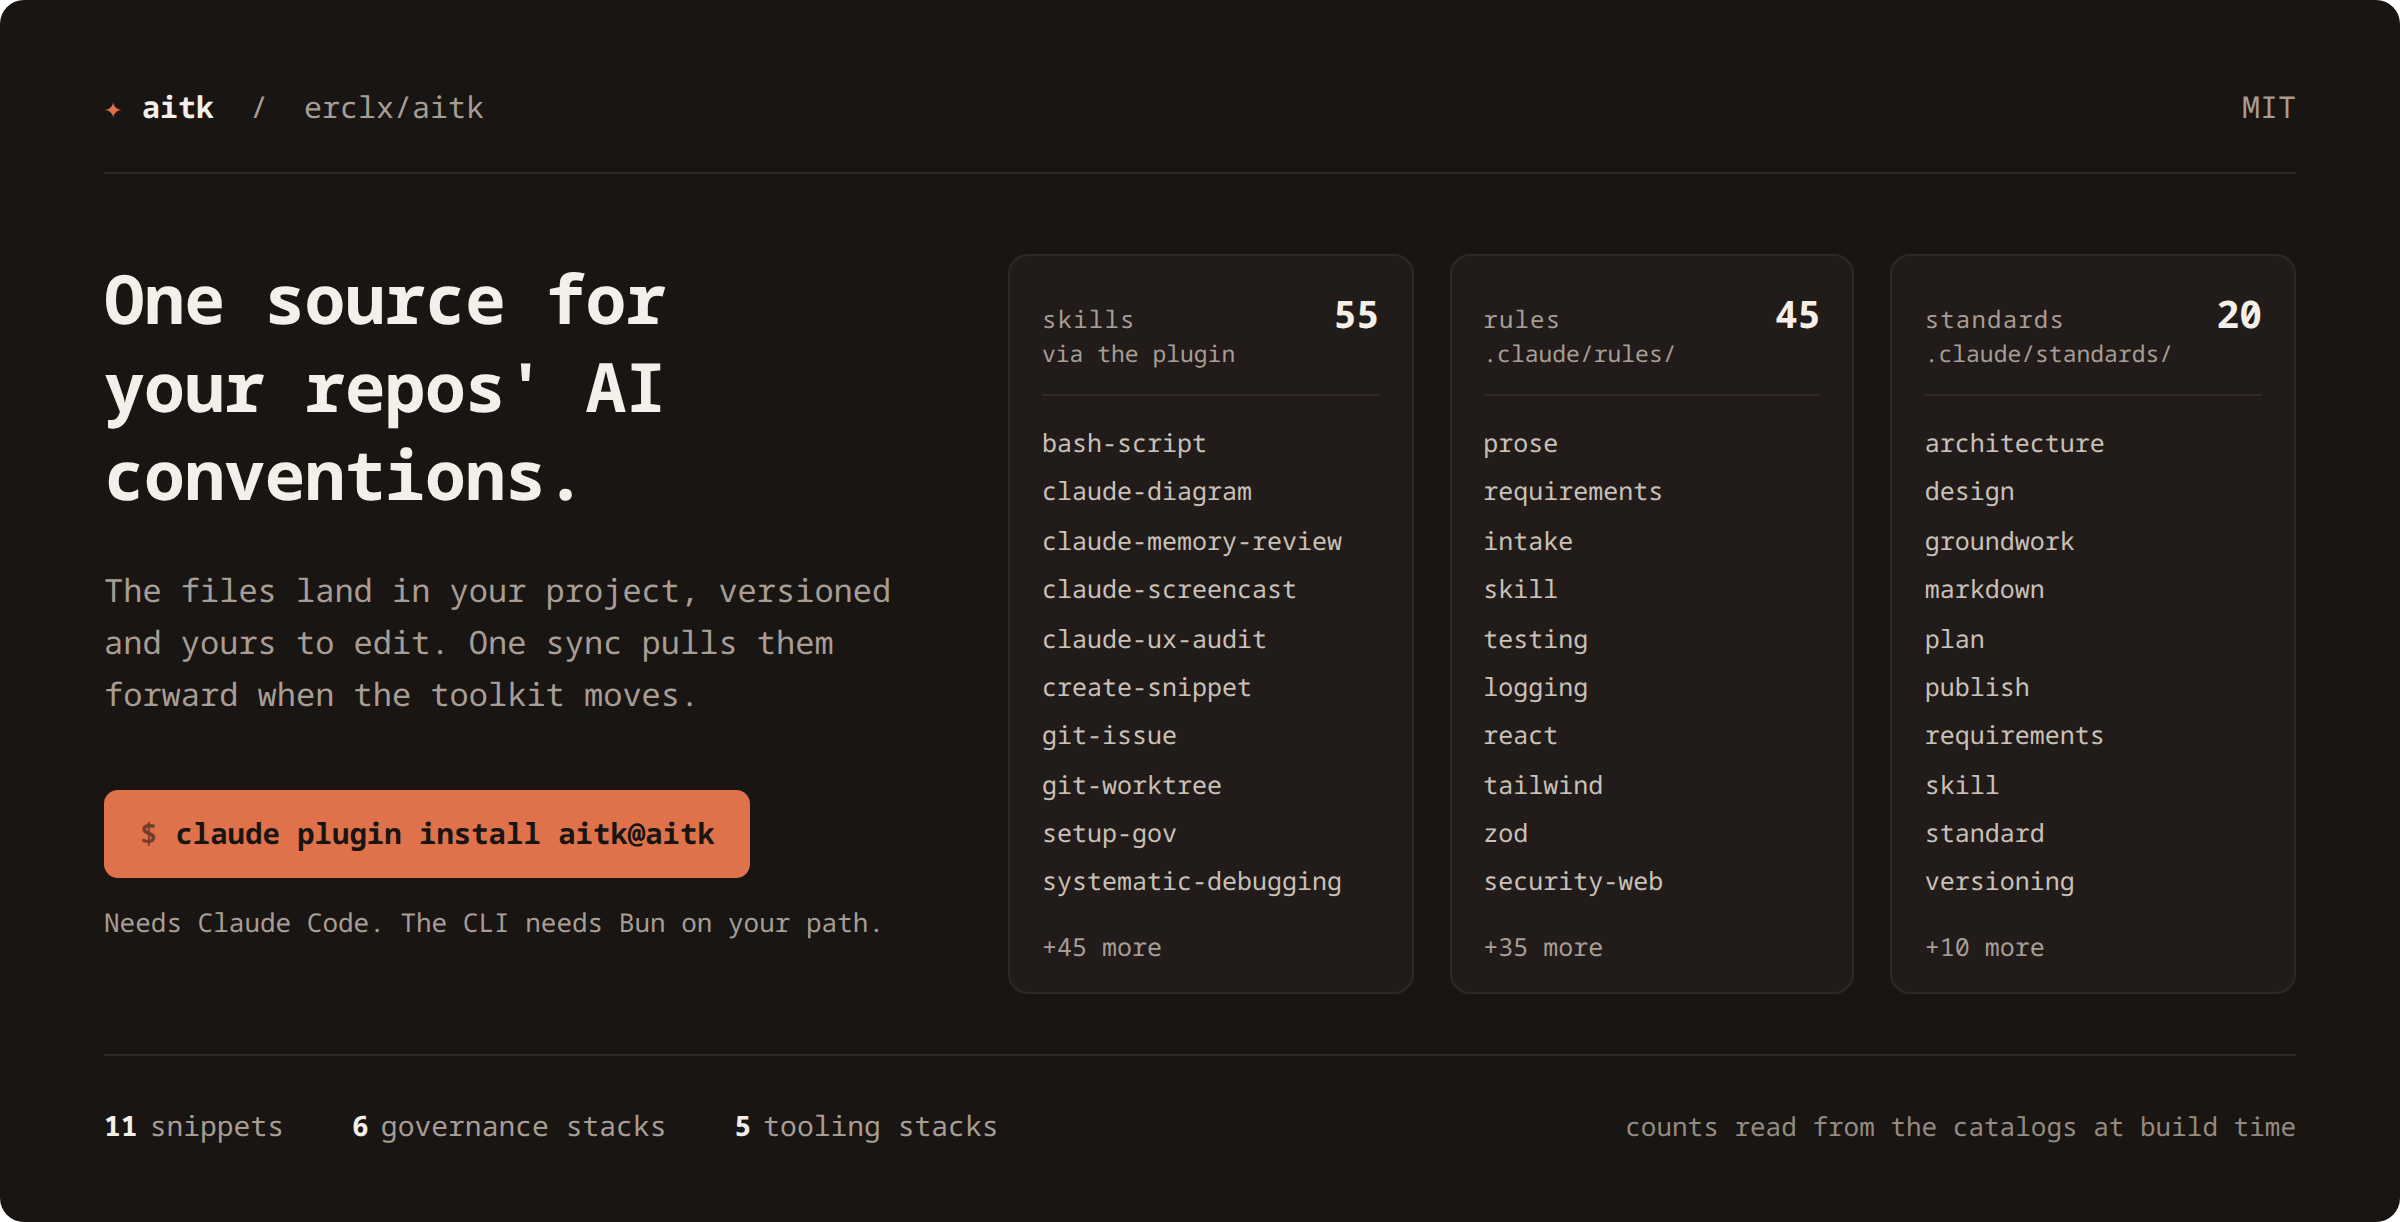
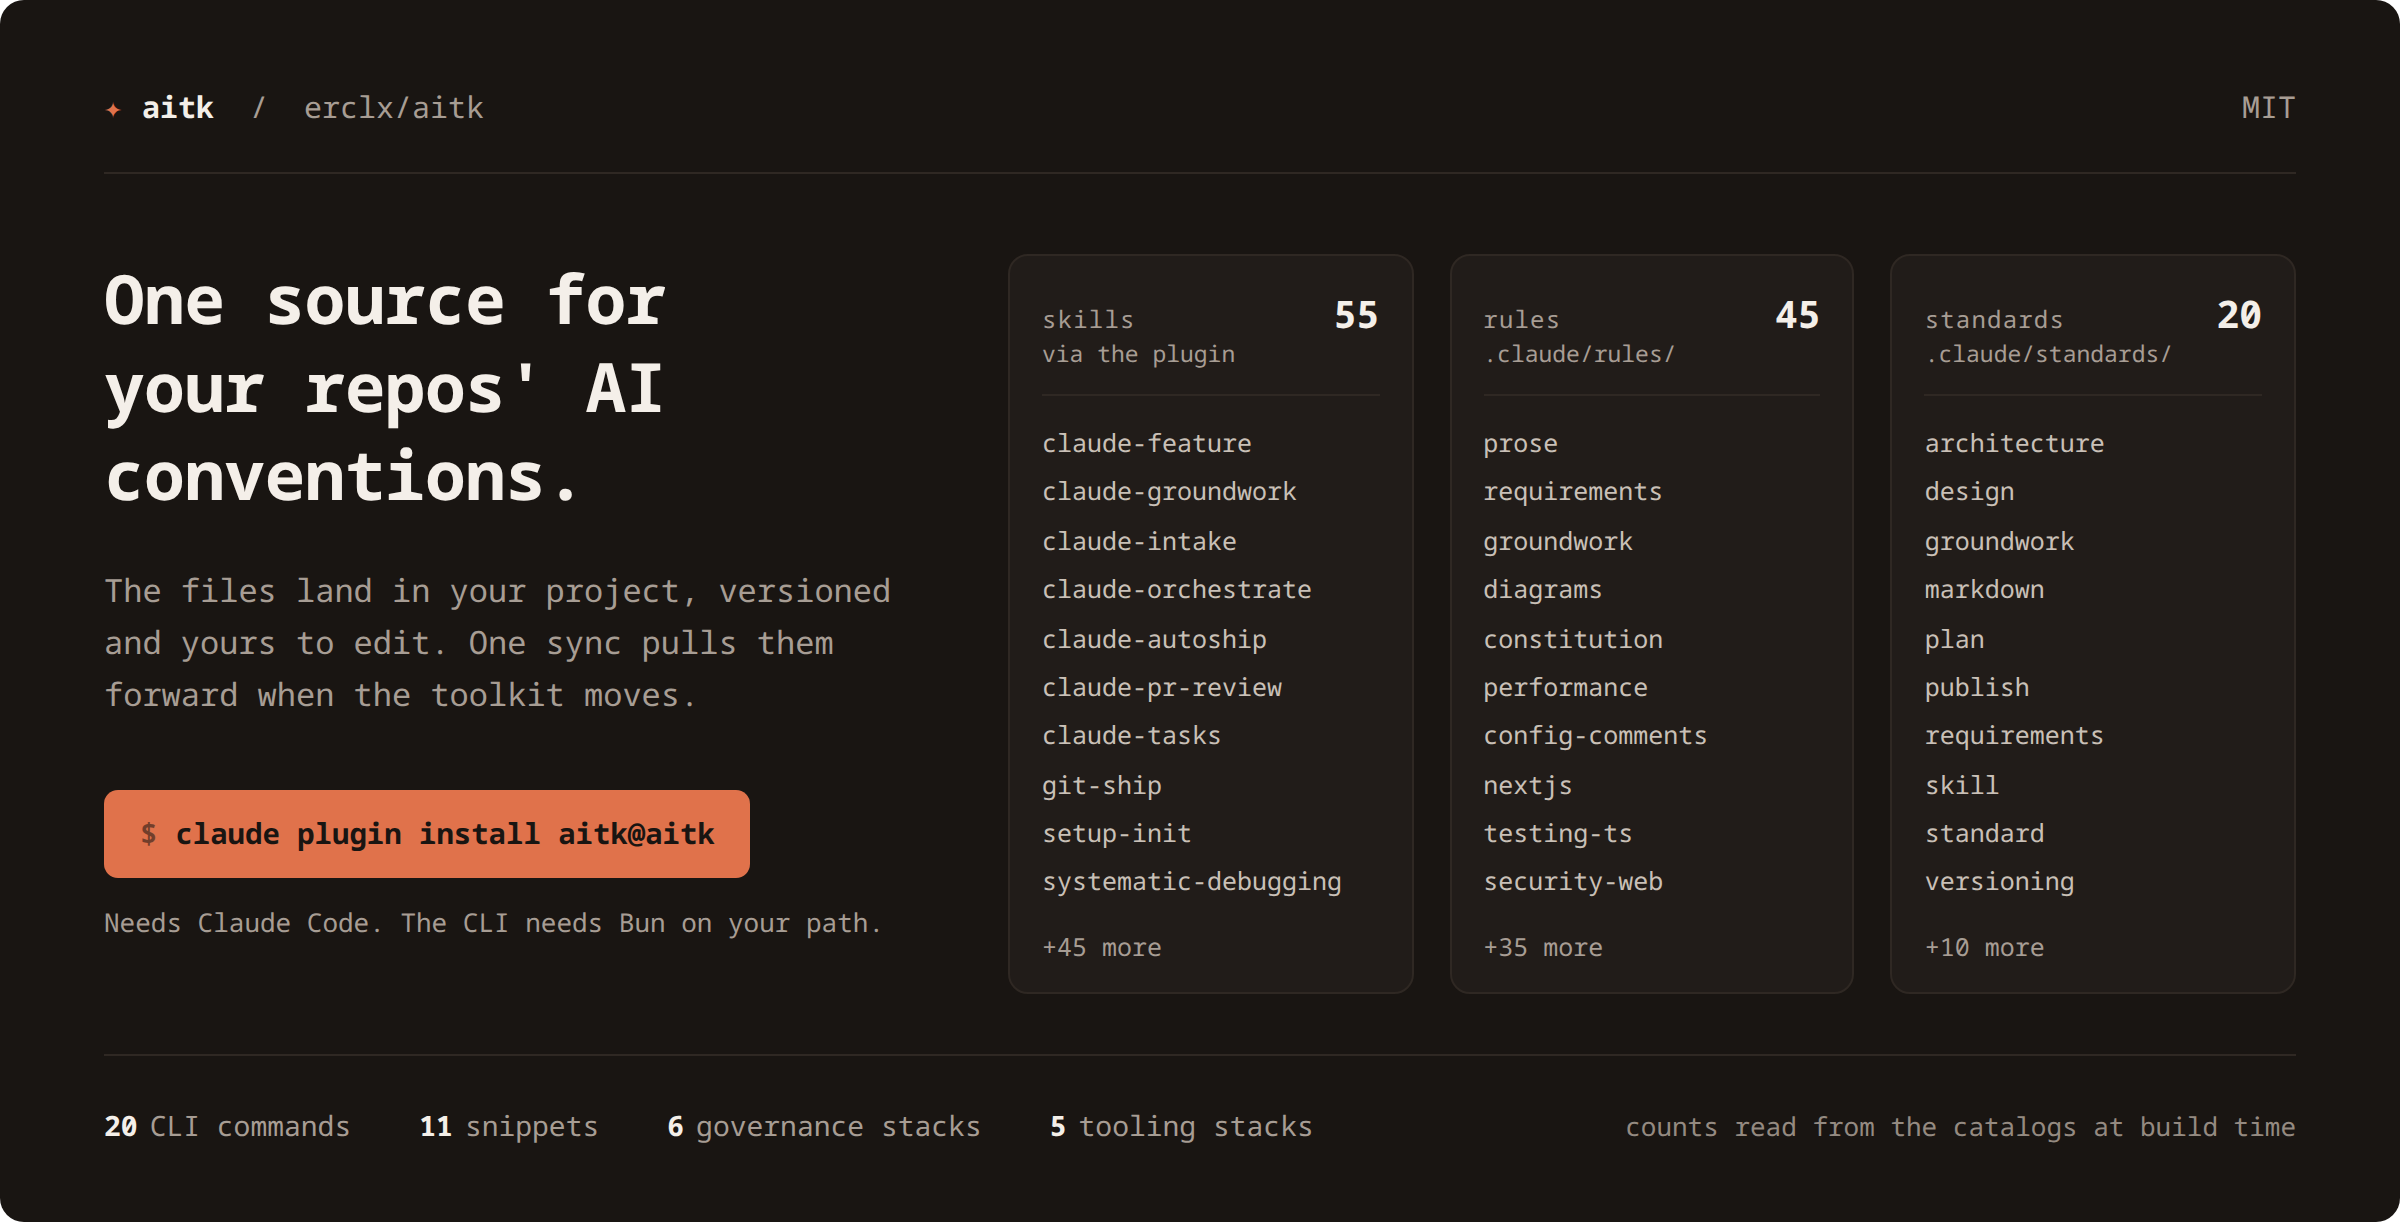
feat(hero): choose the skills shown and filter rules by stack (#866)
## Summary

Replace the positional sample in the hero frame's skill column with a chosen list that fails the regeneration when a name leaves the catalog, and limit the rule column to rules a stack delivers.

## Key Changes

- Add `FEATURED_SKILLS` and `featured()` to `scripts/core/regen-hero.sh`, failing the run when a chosen name is absent from the catalog or the list is not `LISTED` long.
- Filter `RULE_ENTRIES` to rules a stack names, leaving `RULE_COUNT` and `RULE_MORE` reading the whole catalog.
- Split `entries()` into `markup()` and `entries()` so the chosen path renders without sampling and keeps the existing escaping.
- Read the CLI command count from the registration block in `src/cli.ts` and render it as a stats value in `assets/hero.html.tmpl`.
- Add `deliveredRules` to the zeroed-catalog guard so a filter that empties the pool fails rather than shipping a blank column.
- Regenerate `assets/hero.html` and `assets/hero.png` in one commit, which the pair gate in `scripts/core/verify.sh` requires.
- Record the split between chosen and sampled columns in `.claude/context/scripts/core.md`, and correct the frame's alt text in `README.md`.

## Technical Context

- A chosen list goes stale where a sample never does, so failing loudly on a missing name is what makes the trade acceptable. The length assert covers the second failure mode, because `SKILL_MORE` counts down from `LISTED` rather than from the number of names rendered.
[…]

diff --git a/assets/hero.html b/assets/hero.html
@@ -1,9 +1,11 @@
 <!doctype html>
 <!--
   Generated by scripts/core/regen-hero.sh from assets/hero.html.tmpl. Do not
-  edit this file. Every count and every entry name below is read from the CLI
-  catalogs at build time, so nothing here is maintained by hand and verify.sh
-  fails when the frame falls behind the tree.
+  edit this file. Every count below is read from the CLI catalogs at build time
+  and verify.sh fails when the frame falls behind the tree. The rule and
+  standard names are sampled from those catalogs too. The skill names are the
+  one hand-kept list, and the generator fails on a name that has left the
+  catalog rather than dropping it from the column.
 
   Warm neutrals carry the frame and a single rust accent marks the counts and
   the install command. One accent, never two, because promoting a second and
@@ -192,15 +194,15 @@
               <span class="col-name">skills</span><span class="col-count">55</span>
             </div>
             <div class="col-dest">via the plugin</div>
-            <div class="entry">bash-script</div>
-            <div class="entry">claude-diagram</div>
-            <div class="entry">claude-memory-review</div>
-            <div class="entry">claude-screencast</div>
-            <div class="entry">claude-ux-audit</div>
-            <div class="entry">create-snippet</div>
-            <div class="entry">git-issue</div>
-            <div class="entry">git-worktree</div>
-            <div class="entry">setup-gov</div>
+            <div class="entry">claude-feature</div>
+            <div class="entry">claude-groundwork</div>
+            <div class="entry">claude-intake</div>
+            <div class="entry">claude-orchestrate</div>
+            <div class="entry">claude-autoship</div>
+            <div class="entry">claude-pr-review</div>
+            <div class="entry">claude-tasks</div>
+            <div class="entry">git-ship</div>
+            <div class="entry">setup-init</div>
             <div class="entry">systematic-debugging</div>
             <div class="more">+45 more</div>
           </div>
@@ -212,13 +214,13 @@
             <div class="col-dest">.claude/rules/</div>
             <div class="entry">prose</div>
             <div class="entry">requirements</div>
-            <div class="entry">intake</div>
-            <div class="entry">skill</div>
-            <div class="entry">testing</div>
-            <div class="entry">logging</div>
-            <div class="entry">react</div>
-            <div class="entry">tailwind</div>
-            <div class="entry">zod</div>
+            <div class="entry">groundwork</div>
+            <div class="entry">diagrams</div>
+            <div class="entry">constitution</div>
+            <div class="entry">performance</div>
+            <div class="entry">config-comments</div>
+            <div class="entry">nextjs</div>
+            <div class="entry">testing-ts</div>
             <div class="entry">security-web</div>
             <div class="more">+35 more</div>
           </div>
@@ -244,6 +246,7 @@
       </div>
 
       <div class="stats">
+        <span><b>20</b>CLI commands</span>
         <span><b>11</b>snippets</span>
         <span><b>6</b>governance stacks</span>
         <span><b>5</b>tooling stacks</span>

diff --git a/.claude/context/scripts/core.md b/.claude/context/scripts/core.md
@@ -19,6 +19,14 @@ description: Repo maintenance scripts, the guard stages check fires, and the bar
 - `check-skill-paths.sh`: fails when a file under `claude/skills/` references a `wiki/` path, which resolves to nothing in a target
 - `check-plugin-boundary.sh`: walks `claude/` with symlinks followed and fails when a shipped file resolves under `internal/`
 
+## What the hero frame chooses and what it samples
+
+`regen-hero.sh` no longer samples the skills column. It carries a `FEATURED_SKILLS` list of ten chosen names, because the even step lands on the entries closest to commodity and on none of the workflow the toolkit exists to carry. The run fails when a chosen name is absent from the catalog or when the list is not exactly `LISTED` long, so renaming or retiring a shipped skill breaks the Hero stage until the list is updated. The length assert is not decoration: `SKILL_MORE` counts down from `LISTED` rather than from the number of names rendered, so a list of any other length prints a remainder wrong by the difference.
+
+The rules column still samples, but only over rules a stack names. A rule no stack reaches is opt-in behind `--add`, and featuring one advertises an entry an ordinary `aitk gov install` never delivers. The standards column samples the whole catalog, because three of the top four cited standards already appear and a second hand-kept list buys one swap for the same staleness. Every count and every `+N more` reads the whole catalog either way, so curation governs which names appear and nothing else.
+
+The command count in the stats row reads `grep -c '^import { register as ' src/cli.ts`, since the commands have no `--json` catalog and `--help` is hand-authored ASCII that drifts from what is registered. A command added without that import shape leaves the frame's count low and nothing reports it.
+
 ## Reading a JSON payload in a stage
 
 `bun --eval` exits 0 when its script throws while stdin is a pipe, and exits 1 on the same throw with no pipe attached, measured on Bun 1.3.14. A stage piping a catalog into it and branching on `$?` therefore reads a parse failure as a success. A throw also prints nothing, so the empty output then reads as whichever clean result an empty string means in that stage, which is how a broken catalog reports as a clean sweep.

diff --git a/README.md b/README.md
@@ -6,7 +6,7 @@
 
 One source for your repos' AI conventions. Install once, sync everywhere.
 
-![The aitk catalog, listing skills, governance rules, and standards with the count each ships and a sample of their names](assets/hero.png)
+![The aitk catalog, listing skills, governance rules, and standards with the count each ships, the workflow skills named, and a sample of the rule and standard names](assets/hero.png)
 
 If you work across more than one repository and your AI setup has started to drift between them, this is for you. The counts above are read from the catalogs when the image is built, so they're what the repo actually ships today.
 
